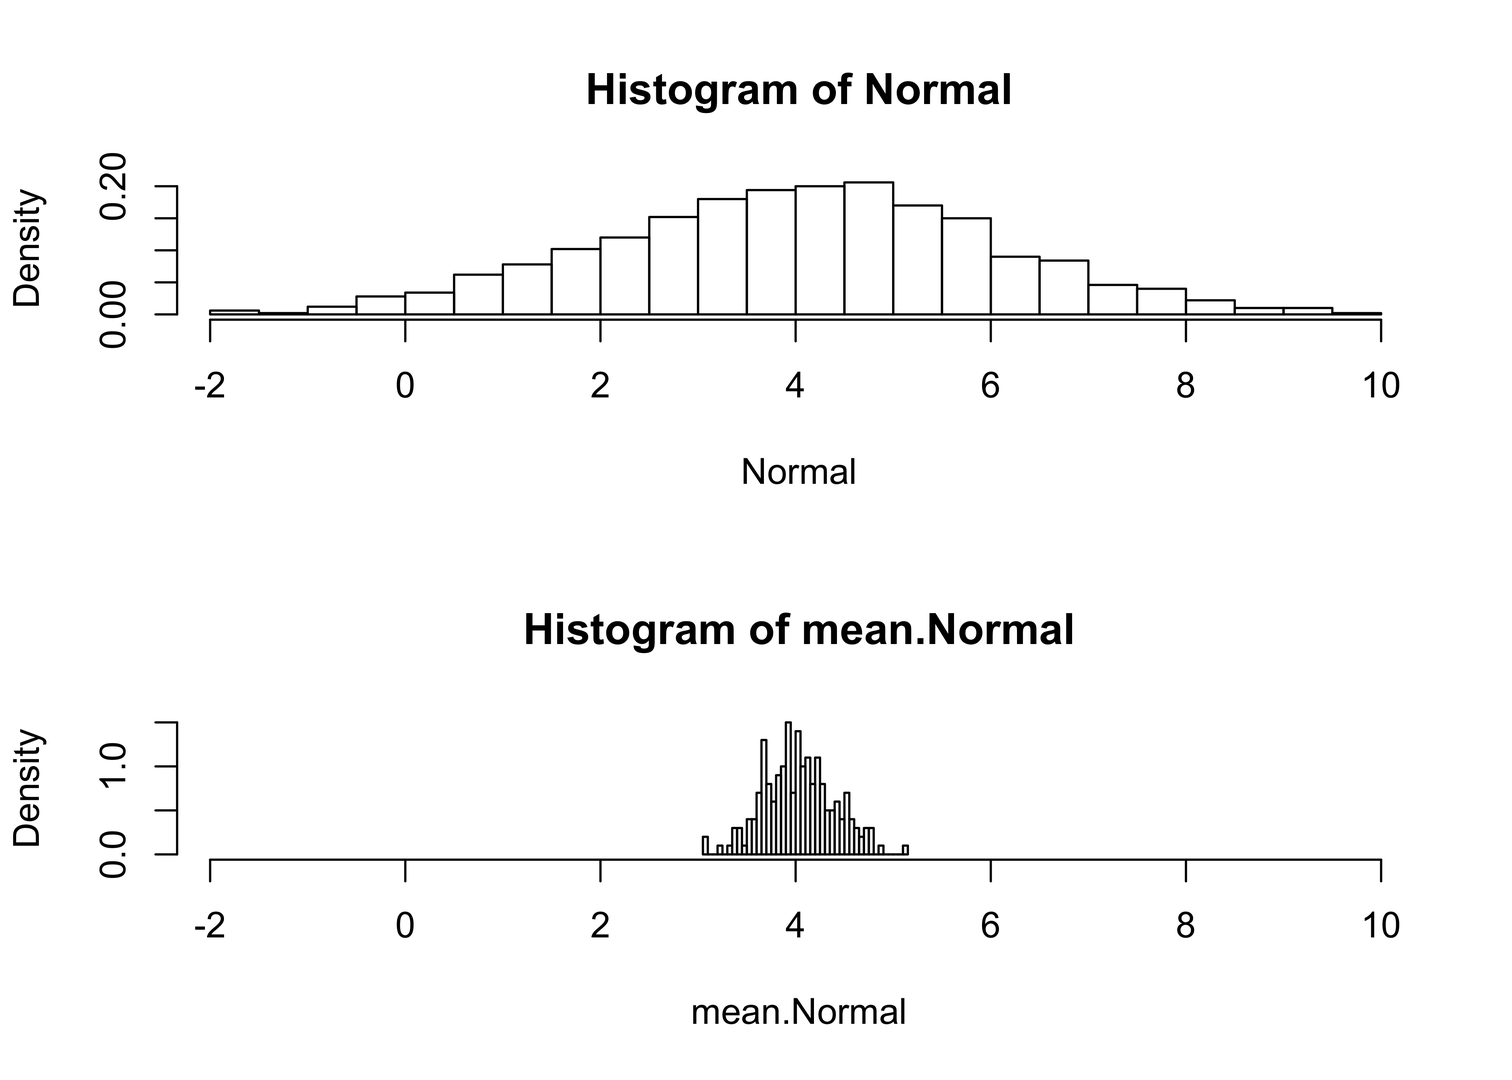
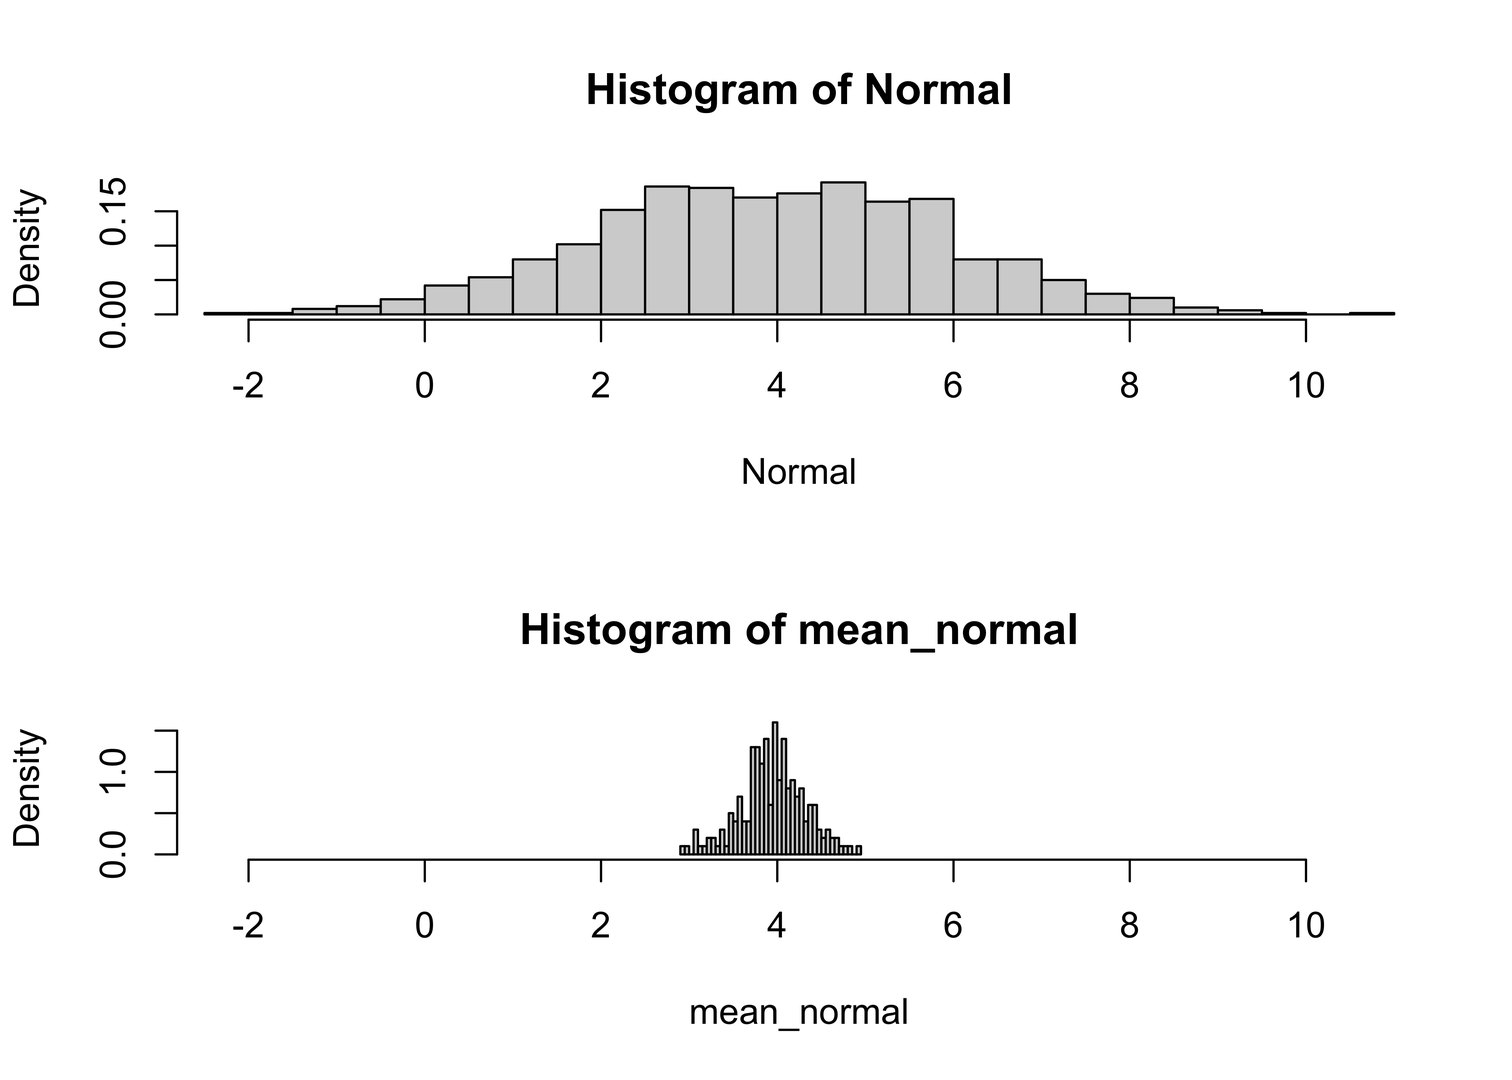
edited lec09.Rmd

diff --git a/docs/lec09.html b/docs/lec09.html
@@ -551,15 +551,15 @@ $(document).ready(function () {
 <a class="sourceLine" id="cb1-2" data-line-number="2"><span class="kw">attach</span>(sierra)</a>
 <a class="sourceLine" id="cb1-3" data-line-number="3"></a>
 <a class="sourceLine" id="cb1-4" data-line-number="4"><span class="co"># sort and rank TSum values</span></a>
-<a class="sourceLine" id="cb1-5" data-line-number="5">sort.TSum &lt;-<span class="st"> </span><span class="kw">sort</span>(TSum) <span class="co"># arranges values from low to high</span></a>
-<a class="sourceLine" id="cb1-6" data-line-number="6">rank.TSum &lt;-<span class="st"> </span><span class="kw">rank</span>(TSum) <span class="co"># replaces values with rank number (1 to n)</span></a>
+<a class="sourceLine" id="cb1-5" data-line-number="5">sort_Tsum &lt;-<span class="st"> </span><span class="kw">sort</span>(TSum) <span class="co"># arranges values from low to high</span></a>
+<a class="sourceLine" id="cb1-6" data-line-number="6">rank_Tsum &lt;-<span class="st"> </span><span class="kw">rank</span>(TSum) <span class="co"># replaces values with rank number (1 to n)</span></a>
 <a class="sourceLine" id="cb1-7" data-line-number="7"></a>
 <a class="sourceLine" id="cb1-8" data-line-number="8"><span class="co"># inspect the sorted and ranked values</span></a>
 <a class="sourceLine" id="cb1-9" data-line-number="9"><span class="co"># close window to exit</span></a>
-<a class="sourceLine" id="cb1-10" data-line-number="10">sierra_sort &lt;-<span class="st"> </span><span class="kw">data.frame</span>(Year, TSum, <span class="kw">rank</span>(TSum), sort.TSum, <span class="kw">rank</span>(sort.TSum),</a>
+<a class="sourceLine" id="cb1-10" data-line-number="10">sierra_sort &lt;-<span class="st"> </span><span class="kw">data.frame</span>(Year, TSum, <span class="kw">rank</span>(TSum), sort_Tsum, <span class="kw">rank</span>(sort_Tsum),</a>
 <a class="sourceLine" id="cb1-11" data-line-number="11">     Year[<span class="kw">rank</span>(TSum)])</a>
 <a class="sourceLine" id="cb1-12" data-line-number="12"><span class="kw">head</span>(sierra_sort)</a></code></pre></div>
-<pre><code>##   Year  TSum rank.TSum. sort.TSum rank.sort.TSum. Year.rank.TSum..
+<pre><code>##   Year  TSum rank.TSum. sort_Tsum rank.sort_Tsum. Year.rank.TSum..
 ## 1  800 15.68      667.0     13.68             1.0             1466
 ## 2  801 14.00       58.0     13.70             2.0              857
 ## 3  802 15.41      579.5     13.71             3.0             1378
@@ -567,7 +567,7 @@ $(document).ready(function () {
 ## 5  804 16.14      849.5     13.74             4.5             1648
 ## 6  805 16.99     1093.5     13.75             6.0             1892</code></pre>
 <div class="sourceCode" id="cb3"><pre class="sourceCode r"><code class="sourceCode r"><a class="sourceLine" id="cb3-1" data-line-number="1"><span class="kw">tail</span>(sierra_sort)</a></code></pre></div>
-<pre><code>##      Year  TSum rank.TSum. sort.TSum rank.sort.TSum. Year.rank.TSum..
+<pre><code>##      Year  TSum rank.TSum. sort_Tsum rank.sort_Tsum. Year.rank.TSum..
 ## 1184 1983 16.79     1047.0     17.38          1182.5             1846
 ## 1185 1984 16.71     1018.0     17.39          1185.5             1817
 ## 1186 1985 16.68     1010.5     17.39          1185.5             1809
@@ -589,20 +589,20 @@ $(document).ready(function () {
 <h3><span class="header-section-number">2.1.2</span> What value of <code>TSum</code> is exceeded 10 percent of the time?</h3>
 <p>Other information can be gained by examining the empirical cumulative density function, which is a plot of the sorted values of <code>TSum</code> and the probability of equaling or exceeding that value in the data set</p>
 <div class="sourceCode" id="cb7"><pre class="sourceCode r"><code class="sourceCode r"><a class="sourceLine" id="cb7-1" data-line-number="1"><span class="co"># empirical cumulative density function</span></a>
-<a class="sourceLine" id="cb7-2" data-line-number="2">ecdf.TSum &lt;-<span class="st"> </span><span class="kw">rank</span>(sort.TSum)<span class="op">/</span><span class="kw">length</span>(TSum)</a>
-<a class="sourceLine" id="cb7-3" data-line-number="3"><span class="kw">plot</span>(sort.TSum, ecdf.TSum, <span class="dt">type=</span><span class="st">&quot;l&quot;</span>)</a></code></pre></div>
+<a class="sourceLine" id="cb7-2" data-line-number="2">ecdf_Tsum &lt;-<span class="st"> </span><span class="kw">rank</span>(sort_Tsum)<span class="op">/</span><span class="kw">length</span>(TSum)</a>
+<a class="sourceLine" id="cb7-3" data-line-number="3"><span class="kw">plot</span>(sort_Tsum, ecdf_Tsum, <span class="dt">type=</span><span class="st">&quot;l&quot;</span>)</a></code></pre></div>
 <p><img src="lec09_files/figure-html/refDist03-1.png" width="2100" /></p>
-<div class="sourceCode" id="cb8"><pre class="sourceCode r"><code class="sourceCode r"><a class="sourceLine" id="cb8-1" data-line-number="1">sierra_ecdf &lt;-<span class="st"> </span><span class="kw">data.frame</span>(Year, TSum, <span class="kw">rank</span>(TSum), sort.TSum, <span class="kw">rank</span>(sort.TSum),</a>
-<a class="sourceLine" id="cb8-2" data-line-number="2">     Year[<span class="kw">rank</span>(TSum)], ecdf.TSum)</a>
+<div class="sourceCode" id="cb8"><pre class="sourceCode r"><code class="sourceCode r"><a class="sourceLine" id="cb8-1" data-line-number="1">sierra_ecdf &lt;-<span class="st"> </span><span class="kw">data.frame</span>(Year, TSum, <span class="kw">rank</span>(TSum), sort_Tsum, <span class="kw">rank</span>(sort_Tsum),</a>
+<a class="sourceLine" id="cb8-2" data-line-number="2">     Year[<span class="kw">rank</span>(TSum)], ecdf_Tsum)</a>
 <a class="sourceLine" id="cb8-3" data-line-number="3"><span class="kw">head</span>(sierra_ecdf); <span class="kw">tail</span>(sierra_ecdf)</a></code></pre></div>
-<pre><code>##   Year  TSum rank.TSum. sort.TSum rank.sort.TSum. Year.rank.TSum..    ecdf.TSum
+<pre><code>##   Year  TSum rank.TSum. sort_Tsum rank.sort_Tsum. Year.rank.TSum..    ecdf_Tsum
 ## 1  800 15.68      667.0     13.68             1.0             1466 0.0008410429
 ## 2  801 14.00       58.0     13.70             2.0              857 0.0016820858
 ## 3  802 15.41      579.5     13.71             3.0             1378 0.0025231287
 ## 4  803 15.28      523.5     13.74             4.5             1322 0.0037846930
 ## 5  804 16.14      849.5     13.74             4.5             1648 0.0037846930
 ## 6  805 16.99     1093.5     13.75             6.0             1892 0.0050462574</code></pre>
-<pre><code>##      Year  TSum rank.TSum. sort.TSum rank.sort.TSum. Year.rank.TSum.. ecdf.TSum
+<pre><code>##      Year  TSum rank.TSum. sort_Tsum rank.sort_Tsum. Year.rank.TSum.. ecdf_Tsum
 ## 1184 1983 16.79     1047.0     17.38          1182.5             1846 0.9945332
 ## 1185 1984 16.71     1018.0     17.39          1185.5             1817 0.9970563
 ## 1186 1985 16.68     1010.5     17.39          1185.5             1809 0.9970563
@@ -684,20 +684,20 @@ $(document).ready(function () {
 <p>Probability density function (pdf) (R/S-Plus term is Density),</p>
 <div class="sourceCode" id="cb20"><pre class="sourceCode r"><code class="sourceCode r"><a class="sourceLine" id="cb20-1" data-line-number="1"><span class="co"># probability density function</span></a>
 <a class="sourceLine" id="cb20-2" data-line-number="2">x &lt;-<span class="st"> </span><span class="kw">seq</span>(<span class="op">-</span><span class="dv">3</span>, <span class="op">+</span><span class="dv">3</span>, <span class="dt">by=</span>.<span class="dv">1</span>)</a>
-<a class="sourceLine" id="cb20-3" data-line-number="3">pdf.norm &lt;-<span class="st"> </span><span class="kw">dnorm</span>(x, <span class="dt">mean=</span><span class="dv">0</span>, <span class="dt">sd=</span><span class="dv">1</span>)</a>
-<a class="sourceLine" id="cb20-4" data-line-number="4"><span class="kw">plot</span>(x, pdf.norm, <span class="dt">type=</span><span class="st">&quot;l&quot;</span>)</a></code></pre></div>
+<a class="sourceLine" id="cb20-3" data-line-number="3">pdf_norm&lt;-<span class="st"> </span><span class="kw">dnorm</span>(x, <span class="dt">mean=</span><span class="dv">0</span>, <span class="dt">sd=</span><span class="dv">1</span>)</a>
+<a class="sourceLine" id="cb20-4" data-line-number="4"><span class="kw">plot</span>(x, pdf_norm, <span class="dt">type=</span><span class="st">&quot;l&quot;</span>)</a></code></pre></div>
 <p><img src="lec09_files/figure-html/normal01-1.png" width="2100" /></p>
 <p>Cumulative density function (cdf) (R/S-Plus term is Probability), and</p>
 <div class="sourceCode" id="cb21"><pre class="sourceCode r"><code class="sourceCode r"><a class="sourceLine" id="cb21-1" data-line-number="1"><span class="co"># cumulative density function</span></a>
 <a class="sourceLine" id="cb21-2" data-line-number="2">x &lt;-<span class="st"> </span><span class="kw">seq</span>(<span class="op">-</span><span class="dv">3</span>, <span class="op">+</span><span class="dv">3</span>, <span class="dt">by=</span>.<span class="dv">1</span>)</a>
-<a class="sourceLine" id="cb21-3" data-line-number="3">cdf.norm &lt;-<span class="kw">pnorm</span>(x, <span class="dt">mean=</span><span class="dv">0</span>, <span class="dt">sd=</span><span class="dv">1</span>)</a>
-<a class="sourceLine" id="cb21-4" data-line-number="4"><span class="kw">plot</span>(x, cdf.norm, <span class="dt">type=</span><span class="st">&quot;l&quot;</span>)</a></code></pre></div>
+<a class="sourceLine" id="cb21-3" data-line-number="3">cdf_norm&lt;-<span class="kw">pnorm</span>(x, <span class="dt">mean=</span><span class="dv">0</span>, <span class="dt">sd=</span><span class="dv">1</span>)</a>
+<a class="sourceLine" id="cb21-4" data-line-number="4"><span class="kw">plot</span>(x, cdf_norm, <span class="dt">type=</span><span class="st">&quot;l&quot;</span>)</a></code></pre></div>
 <p><img src="lec09_files/figure-html/normal02-1.png" width="2100" /></p>
 <p>Inverse cumulative density function (invcdf) (R/S-Plus term is Quantile).</p>
 <div class="sourceCode" id="cb22"><pre class="sourceCode r"><code class="sourceCode r"><a class="sourceLine" id="cb22-1" data-line-number="1"><span class="co"># inverse cumulative density function</span></a>
 <a class="sourceLine" id="cb22-2" data-line-number="2">pr &lt;-<span class="st"> </span><span class="kw">seq</span>(<span class="dv">0</span>, <span class="dv">1</span>, <span class="dt">by=</span>.<span class="dv">01</span>)</a>
-<a class="sourceLine" id="cb22-3" data-line-number="3">invcdf.norm &lt;-<span class="st"> </span><span class="kw">qnorm</span>(pr, <span class="dt">mean=</span><span class="dv">0</span>, <span class="dt">sd=</span><span class="dv">1</span>)</a>
-<a class="sourceLine" id="cb22-4" data-line-number="4"><span class="kw">plot</span>(pr, invcdf.norm, <span class="dt">type=</span><span class="st">&quot;l&quot;</span>)</a></code></pre></div>
+<a class="sourceLine" id="cb22-3" data-line-number="3">invcdf_norm&lt;-<span class="st"> </span><span class="kw">qnorm</span>(pr, <span class="dt">mean=</span><span class="dv">0</span>, <span class="dt">sd=</span><span class="dv">1</span>)</a>
+<a class="sourceLine" id="cb22-4" data-line-number="4"><span class="kw">plot</span>(pr, invcdf_norm, <span class="dt">type=</span><span class="st">&quot;l&quot;</span>)</a></code></pre></div>
 <p><img src="lec09_files/figure-html/normal03-1.png" width="2100" /></p>
 <p>Random numbers drawn from the normal distribution can be obtained as follows</p>
 <div class="sourceCode" id="cb23"><pre class="sourceCode r"><code class="sourceCode r"><a class="sourceLine" id="cb23-1" data-line-number="1"><span class="co"># normally distributed random numbers</span></a>
@@ -710,7 +710,7 @@ $(document).ready(function () {
 <div id="the-central-limit-theorem" class="section level2">
 <h2><span class="header-section-number">3.2</span> The Central Limit Theorem</h2>
 <p>The Central Limit Theorem provides the explanation for the wide applicability of the normal distribution in significance testing, because it guarantees us that (providing certain assumptions are met) that statistics (like the mean) obtained by integrating (as in summing up for computing the mean) will turn out to be normally distributed, no matter what the distribution of the underlying data is.</p>
-<p>The Central Limit Theorem is a mathematical demonstration that statistics (like the mean) that are based on summations or integrations of a set of observations are normally distributed, no matter what the distribution is of the data from which samples are being drawn. The theorem therefore assures us that the normal distribution is the appropriate reference distribution for a sample mean to be compared with, in order to judge the relative size of that sample mean.</p>
+<p>The Central Limit Theorem is a mathematical demonstration that statistics (like the mean) that are based on summations or integrations of a set of observations are normally distributed, no matter what the distribution is of the data from which samples are being drawn. The theorem therefore assures us that the normal distribution is the appropriate reference distribution for a sample mean to be compared with, in order to judge the relative size of that sample mean_</p>
 <div id="empirical-demonstration-of-the-central-limit-theorem" class="section level3">
 <h3><span class="header-section-number">3.2.1</span> Empirical demonstration of the Central Limit Theorem</h3>
 <p>Generate 1000 random numbers from four different distributions, the standard normal, the normal, the log-normal and uniform distributions. Histograms of the random numbers will make it clear what the shape of the distributions are like</p>
@@ -730,23 +730,23 @@ $(document).ready(function () {
 <div class="sourceCode" id="cb28"><pre class="sourceCode r"><code class="sourceCode r"><a class="sourceLine" id="cb28-1" data-line-number="1"><span class="co"># take repeated samples from each distribution and calculate and save means</span></a>
 <a class="sourceLine" id="cb28-2" data-line-number="2"><span class="co"># repeated sampling and calculation of means</span></a>
 <a class="sourceLine" id="cb28-3" data-line-number="3">nsamp &lt;-<span class="st"> </span><span class="dv">200</span> <span class="co"># number of samples</span></a>
-<a class="sourceLine" id="cb28-4" data-line-number="4">mean.stdNormal &lt;-<span class="st"> </span><span class="kw">matrix</span>(<span class="dv">1</span><span class="op">:</span>nsamp) <span class="co"># matrix to hold means</span></a>
-<a class="sourceLine" id="cb28-5" data-line-number="5">mean.Normal &lt;-<span class="st"> </span><span class="kw">matrix</span>(<span class="dv">1</span><span class="op">:</span>nsamp) <span class="co"># matrix to hold means</span></a>
-<a class="sourceLine" id="cb28-6" data-line-number="6">mean.logNormal &lt;-<span class="st"> </span><span class="kw">matrix</span>(<span class="dv">1</span><span class="op">:</span>nsamp) <span class="co"># matrix to hold means</span></a>
-<a class="sourceLine" id="cb28-7" data-line-number="7">mean.Uniform &lt;-<span class="st"> </span><span class="kw">matrix</span>(<span class="dv">1</span><span class="op">:</span>nsamp) <span class="co"># matrix to hold means</span></a>
+<a class="sourceLine" id="cb28-4" data-line-number="4">mean_stdNormal &lt;-<span class="st"> </span><span class="kw">matrix</span>(<span class="dv">1</span><span class="op">:</span>nsamp) <span class="co"># matrix to hold means</span></a>
+<a class="sourceLine" id="cb28-5" data-line-number="5">mean_normal &lt;-<span class="st"> </span><span class="kw">matrix</span>(<span class="dv">1</span><span class="op">:</span>nsamp) <span class="co"># matrix to hold means</span></a>
+<a class="sourceLine" id="cb28-6" data-line-number="6">mean_logNormal &lt;-<span class="st"> </span><span class="kw">matrix</span>(<span class="dv">1</span><span class="op">:</span>nsamp) <span class="co"># matrix to hold means</span></a>
+<a class="sourceLine" id="cb28-7" data-line-number="7">mean_Uniform &lt;-<span class="st"> </span><span class="kw">matrix</span>(<span class="dv">1</span><span class="op">:</span>nsamp) <span class="co"># matrix to hold means</span></a>
 <a class="sourceLine" id="cb28-8" data-line-number="8"></a>
 <a class="sourceLine" id="cb28-9" data-line-number="9"><span class="cf">for</span> (i <span class="cf">in</span> <span class="dv">1</span><span class="op">:</span>nsamp) {</a>
 <a class="sourceLine" id="cb28-10" data-line-number="10">     samp &lt;-<span class="st"> </span><span class="kw">sample</span>(stdNormal, <span class="dv">30</span>, <span class="dt">replace=</span>T)</a>
-<a class="sourceLine" id="cb28-11" data-line-number="11">     mean.stdNormal[i] &lt;-<span class="st"> </span><span class="kw">mean</span>(samp)</a>
+<a class="sourceLine" id="cb28-11" data-line-number="11">     mean_stdNormal[i] &lt;-<span class="st"> </span><span class="kw">mean</span>(samp)</a>
 <a class="sourceLine" id="cb28-12" data-line-number="12"></a>
 <a class="sourceLine" id="cb28-13" data-line-number="13">     samp &lt;-<span class="st"> </span><span class="kw">sample</span>(Normal, <span class="dv">30</span>, <span class="dt">replace=</span>T)</a>
-<a class="sourceLine" id="cb28-14" data-line-number="14">     mean.Normal[i] &lt;-<span class="st"> </span><span class="kw">mean</span>(samp)</a>
+<a class="sourceLine" id="cb28-14" data-line-number="14">     mean_normal[i] &lt;-<span class="st"> </span><span class="kw">mean</span>(samp)</a>
 <a class="sourceLine" id="cb28-15" data-line-number="15"></a>
 <a class="sourceLine" id="cb28-16" data-line-number="16">     samp &lt;-<span class="st"> </span><span class="kw">sample</span>(logNormal, <span class="dv">30</span>, <span class="dt">replace=</span>T)</a>
-<a class="sourceLine" id="cb28-17" data-line-number="17">     mean.logNormal[i] &lt;-<span class="st"> </span><span class="kw">mean</span>(samp)</a>
+<a class="sourceLine" id="cb28-17" data-line-number="17">     mean_logNormal[i] &lt;-<span class="st"> </span><span class="kw">mean</span>(samp)</a>
 <a class="sourceLine" id="cb28-18" data-line-number="18"></a>
 <a class="sourceLine" id="cb28-19" data-line-number="19">     samp &lt;-<span class="st"> </span><span class="kw">sample</span>(Uniform, <span class="dv">30</span>, <span class="dt">replace=</span>T)</a>
-<a class="sourceLine" id="cb28-20" data-line-number="20">     mean.Uniform[i] &lt;-<span class="st"> </span><span class="kw">mean</span>(samp)</a>
+<a class="sourceLine" id="cb28-20" data-line-number="20">     mean_Uniform[i] &lt;-<span class="st"> </span><span class="kw">mean</span>(samp)</a>
 <a class="sourceLine" id="cb28-21" data-line-number="21">}</a></code></pre></div>
 <p>Histograms of the original data, as well as of the sample means can be obtained with the following script.</p>
 <div class="sourceCode" id="cb29"><pre class="sourceCode r"><code class="sourceCode r"><a class="sourceLine" id="cb29-1" data-line-number="1"><span class="co"># histograms of data and of sample means</span></a>
@@ -756,25 +756,25 @@ $(document).ready(function () {
 <a class="sourceLine" id="cb29-5" data-line-number="5">xmax &lt;-<span class="st"> </span><span class="kw">max</span>(stdNormal)</a>
 <a class="sourceLine" id="cb29-6" data-line-number="6">xmin &lt;-<span class="st"> </span><span class="kw">min</span>(stdNormal)</a>
 <a class="sourceLine" id="cb29-7" data-line-number="7"><span class="kw">hist</span>(stdNormal, <span class="dt">nclass=</span><span class="dv">40</span>, <span class="dt">probability=</span>T, <span class="dt">xlim=</span><span class="kw">c</span>(xmin,xmax))</a>
-<a class="sourceLine" id="cb29-8" data-line-number="8"><span class="kw">hist</span>(mean.stdNormal, <span class="dt">nclass=</span><span class="dv">40</span>, <span class="dt">probability=</span>T, <span class="dt">xlim=</span><span class="kw">c</span>(xmin,xmax))</a></code></pre></div>
+<a class="sourceLine" id="cb29-8" data-line-number="8"><span class="kw">hist</span>(mean_stdNormal, <span class="dt">nclass=</span><span class="dv">40</span>, <span class="dt">probability=</span>T, <span class="dt">xlim=</span><span class="kw">c</span>(xmin,xmax))</a></code></pre></div>
 <p><img src="lec09_files/figure-html/central04-1.png" width="2100" /></p>
 <div class="sourceCode" id="cb30"><pre class="sourceCode r"><code class="sourceCode r"><a class="sourceLine" id="cb30-1" data-line-number="1"><span class="co"># Normal</span></a>
 <a class="sourceLine" id="cb30-2" data-line-number="2">xmax &lt;-<span class="st"> </span><span class="kw">max</span>(Normal)</a>
 <a class="sourceLine" id="cb30-3" data-line-number="3">xmin &lt;-<span class="st"> </span><span class="kw">min</span>(Normal)</a>
 <a class="sourceLine" id="cb30-4" data-line-number="4"><span class="kw">hist</span>(Normal, <span class="dt">nclass=</span><span class="dv">40</span>, <span class="dt">probability=</span>T, <span class="dt">xlim=</span><span class="kw">c</span>(xmin,xmax))</a>
-<a class="sourceLine" id="cb30-5" data-line-number="5"><span class="kw">hist</span>(mean.Normal, <span class="dt">nclass=</span><span class="dv">40</span>, <span class="dt">probability=</span>T, <span class="dt">xlim=</span><span class="kw">c</span>(xmin,xmax))</a></code></pre></div>
+<a class="sourceLine" id="cb30-5" data-line-number="5"><span class="kw">hist</span>(mean_normal, <span class="dt">nclass=</span><span class="dv">40</span>, <span class="dt">probability=</span>T, <span class="dt">xlim=</span><span class="kw">c</span>(xmin,xmax))</a></code></pre></div>
 <p><img src="lec09_files/figure-html/central04-2.png" width="2100" /></p>
 <div class="sourceCode" id="cb31"><pre class="sourceCode r"><code class="sourceCode r"><a class="sourceLine" id="cb31-1" data-line-number="1"><span class="co"># log Normal</span></a>
 <a class="sourceLine" id="cb31-2" data-line-number="2">xmax &lt;-<span class="st"> </span><span class="kw">max</span>(logNormal)</a>
 <a class="sourceLine" id="cb31-3" data-line-number="3">xmin &lt;-<span class="st"> </span><span class="kw">min</span>(logNormal)</a>
 <a class="sourceLine" id="cb31-4" data-line-number="4"><span class="kw">hist</span>(logNormal, <span class="dt">nclass=</span><span class="dv">40</span>, <span class="dt">probability=</span>T, <span class="dt">xlim=</span><span class="kw">c</span>(xmin,xmax))</a>
-<a class="sourceLine" id="cb31-5" data-line-number="5"><span class="kw">hist</span>(mean.logNormal, <span class="dt">nclass=</span><span class="dv">40</span>, <span class="dt">probability=</span>T, <span class="dt">xlim=</span><span class="kw">c</span>(xmin,xmax))</a></code></pre></div>
+<a class="sourceLine" id="cb31-5" data-line-number="5"><span class="kw">hist</span>(mean_logNormal, <span class="dt">nclass=</span><span class="dv">40</span>, <span class="dt">probability=</span>T, <span class="dt">xlim=</span><span class="kw">c</span>(xmin,xmax))</a></code></pre></div>
 <p><img src="lec09_files/figure-html/central04-3.png" width="2100" /></p>
 <div class="sourceCode" id="cb32"><pre class="sourceCode r"><code class="sourceCode r"><a class="sourceLine" id="cb32-1" data-line-number="1"><span class="co"># Uniform</span></a>
 <a class="sourceLine" id="cb32-2" data-line-number="2">xmax &lt;-<span class="st"> </span><span class="kw">max</span>(Uniform)</a>
 <a class="sourceLine" id="cb32-3" data-line-number="3">xmin &lt;-<span class="st"> </span><span class="kw">min</span>(Uniform)</a>
 <a class="sourceLine" id="cb32-4" data-line-number="4"><span class="kw">hist</span>(Uniform, <span class="dt">nclass=</span><span class="dv">40</span>, <span class="dt">probability=</span>T, <span class="dt">xlim=</span><span class="kw">c</span>(xmin,xmax))</a>
-<a class="sourceLine" id="cb32-5" data-line-number="5"><span class="kw">hist</span>(mean.Uniform, <span class="dt">nclass=</span><span class="dv">40</span>, <span class="dt">probability=</span>T, <span class="dt">xlim=</span><span class="kw">c</span>(xmin,xmax))</a></code></pre></div>
+<a class="sourceLine" id="cb32-5" data-line-number="5"><span class="kw">hist</span>(mean_Uniform, <span class="dt">nclass=</span><span class="dv">40</span>, <span class="dt">probability=</span>T, <span class="dt">xlim=</span><span class="kw">c</span>(xmin,xmax))</a></code></pre></div>
 <p><img src="lec09_files/figure-html/central04-4.png" width="2100" /></p>
 <p><a href="lec09.html">[Back to top]</a></p>
 </div>
